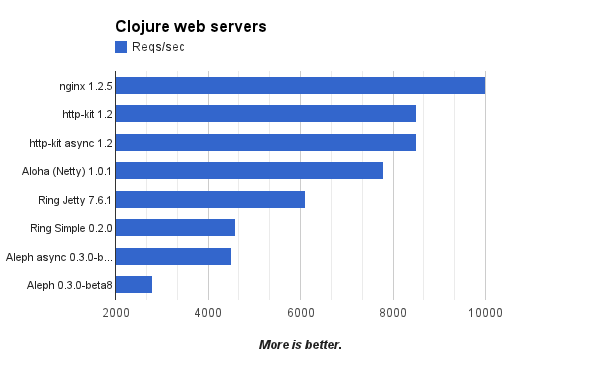
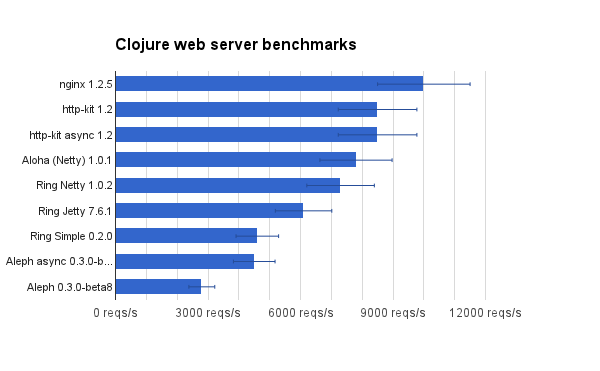
Add ring.adapter.netty, housekeeping

diff --git a/README.md b/README.md
@@ -10,20 +10,21 @@
 
 ![Performance comparison chart](https://github.com/ptaoussanis/clojure-server-benchmarks/raw/master/chart.png)
 
-Responses are echos (static HTML in the case of nginx). [Detailed benchmark information](https://docs.google.com/spreadsheet/ccc?key=0AuSXb68FH4uhdE5kTTlocGZKSXppWG9sRzA5Y2pMVkE) is available on Google Docs.
+Responses are echos (static HTML in the case of nginx). [Detailed benchmark information](https://docs.google.com/spreadsheet/ccc?key=0AuSXb68FH4uhdE5kTTlocGZKSXppWG9sRzA5Y2pMVkE) is available on Google Docs. **Please excuse inaccuracies**: getting consistent results is difficult. Look for general patterns (`A` tends to be faster than `B` under this configuration) rather than specific quantitative differences.
 
 ## Clojure Web Servers on GitHub
 
  * [ring-clojure](https://github.com/ring-clojure/ring)
+ * [ring-simpleweb-adapter](https://github.com/netmelody/ring-simpleweb-adapter)
+ * [ring-netty-adapter](https://github.com/shenfeng/async-ring-adapter)
  * [http-kit](https://github.com/shenfeng/http-kit)
  * [aloha](https://github.com/ztellman/aloha)
- * [ring-simpleweb-adapter](https://github.com/netmelody/ring-simpleweb-adapter)
  * [aleph](https://github.com/ztellman/aleph)
 
 ## TODO
 
  * Jetty 8, 9 (embedded)
- * Jetty 7, 8, 9 (container)
+ * Containers (Jetty, Tomcat, GlassFish, etc.)
  * java.nio
  * Webbit
  * Other ideas?
